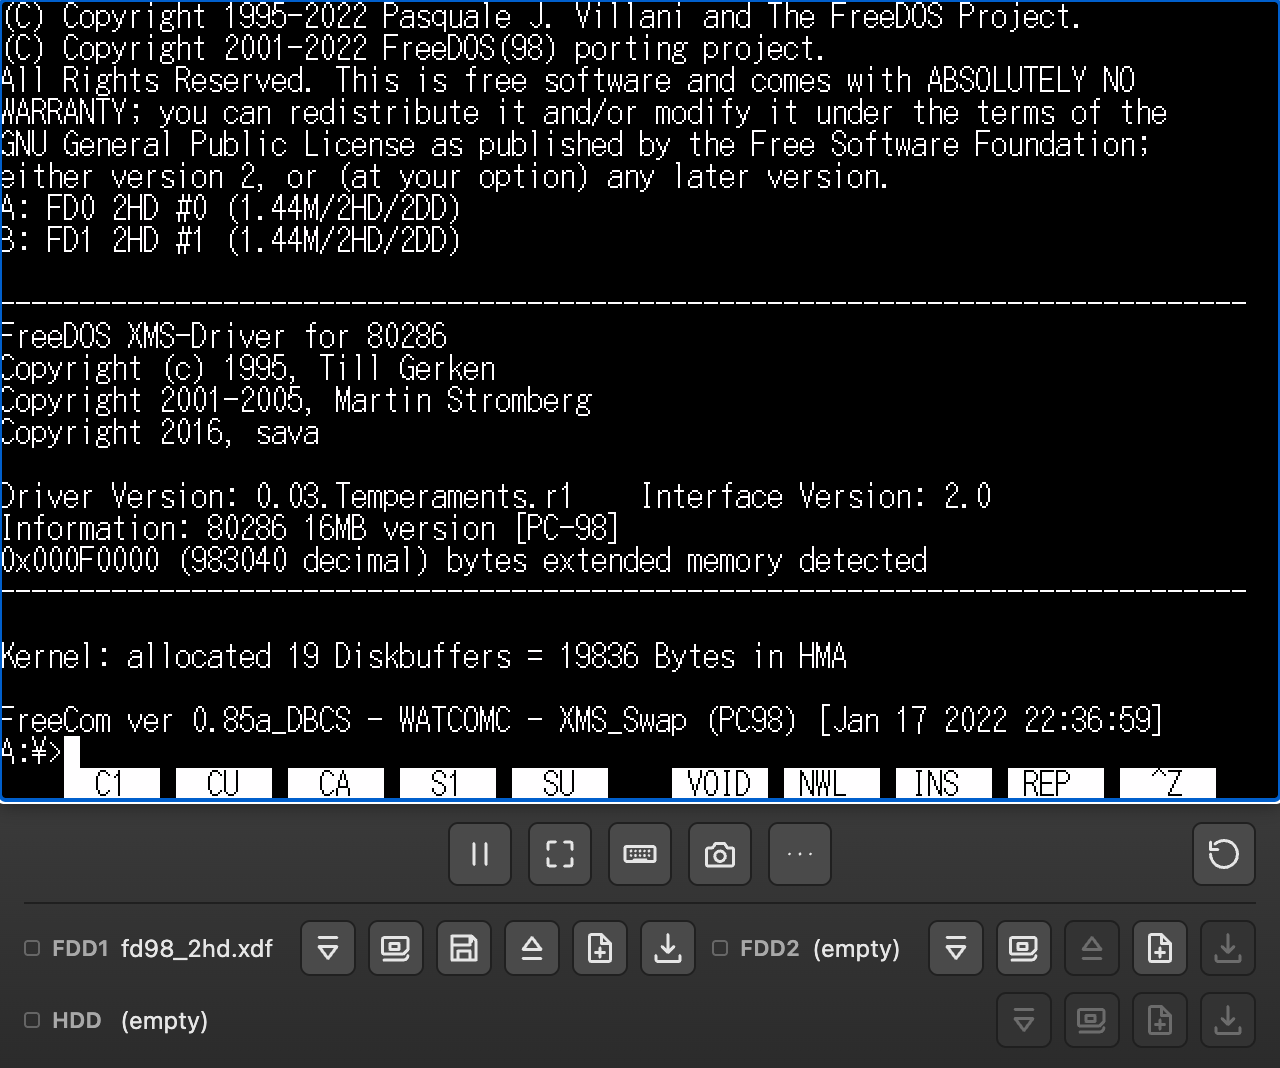
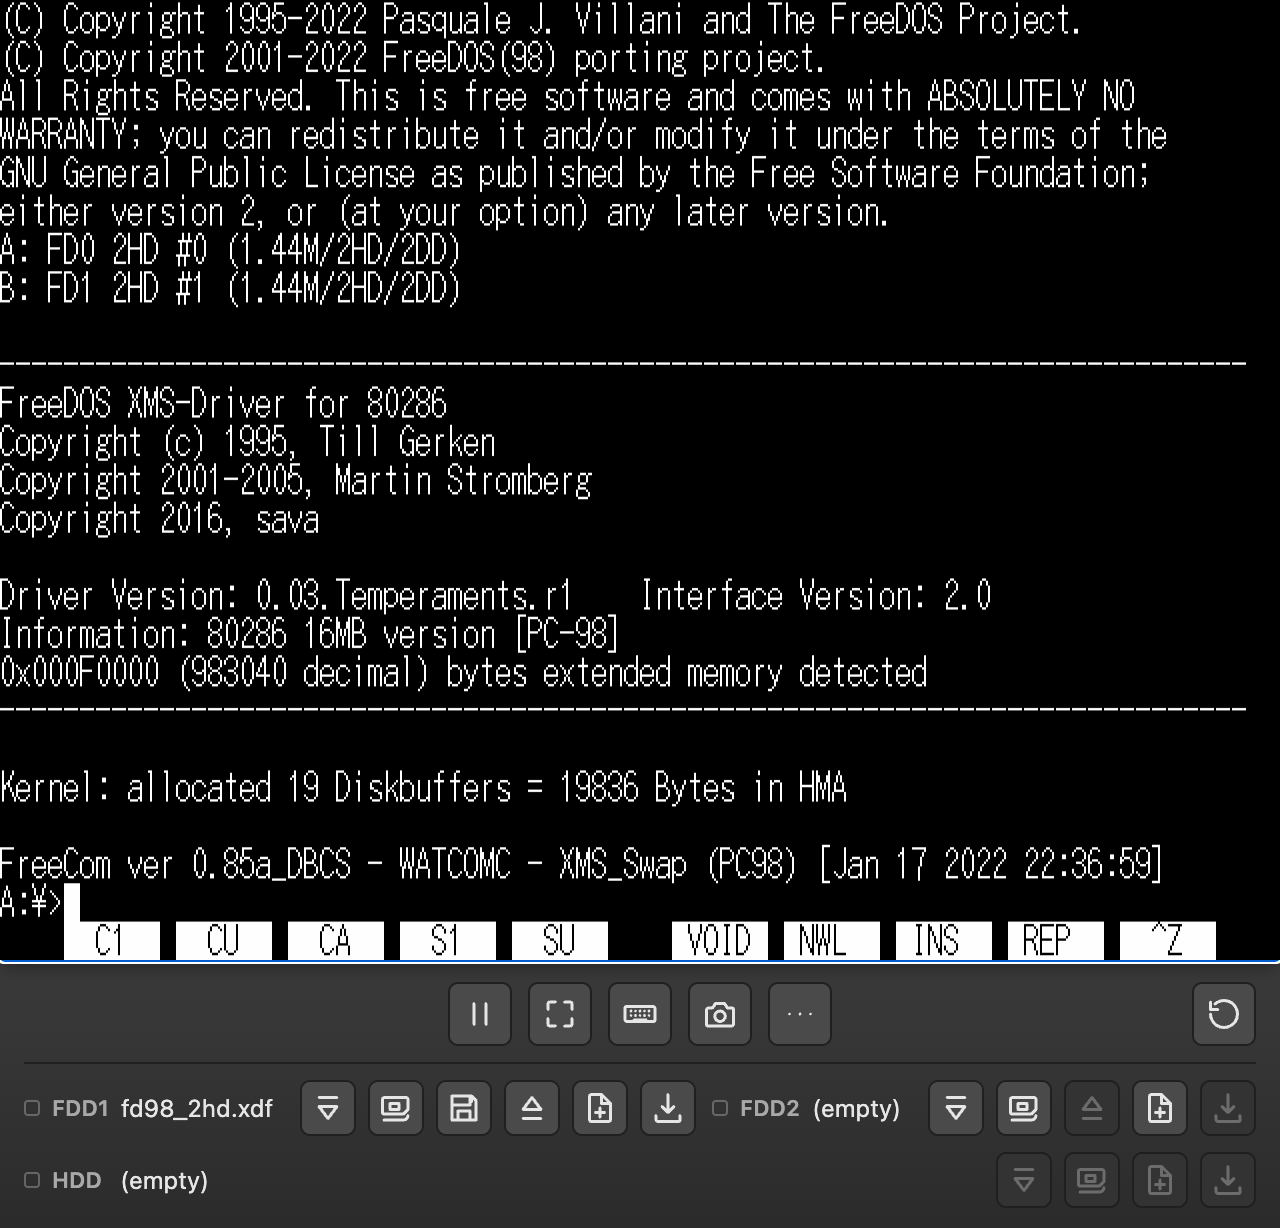
4:3表示モードの既定化を資料と使い方の図に反映
b92a401 でオーバーフローメニューに「表示」グループ(4:3/ドット等倍)が増え、
既定表示が4:3補正になったため、README(日英)のグループ列挙・URLパラメータ表・
実装済み機能一覧、public/help.html のグループ列挙・表示モードの説明・ボタン表、
docs/DESIGN.md のメニュー構成記述と4:3補正の設計節を更新した。

使い方ページの図は既定が4:3になったことで画面が縦に伸びるため、実際に見た目が
変わったoverlay/overview/paste-bar/virtual-pad/virtual-pad-landscape/virtual-trackpad
(日英)のみ撮り直してコミットした。library/library-menu/filemanager/input-settings
は差分がタイムスタンプ等の無関係なノイズのみだったため元のまま維持した。

diff --git a/public/help.html b/public/help.html
@@ -579,8 +579,9 @@
               常時表示は<strong>ポーズ／フルスクリーン／ソフトキーボード／スクリーンショット／「…」</strong>
               が中央にまとまり、<strong>マシンリセットだけ右端に分離</strong>されています。誤って押すと
               起動中の状態が丸ごと吹き飛ぶため、頻繁に押す他の操作から指1本ぶん離してあります。
-              「…」内は入力／サウンド／ディスク／ステートの4グループと、ROM登録／デバッガ／使い方／言語の
-              直結行です。言語行は地球儀アイコンと現在値を表示します。
+              「…」内は表示／入力／サウンド／ディスク／ステートの5グループと、ROM登録／デバッガ／使い方／言語の
+              直結行です。言語行は地球儀アイコンと現在値を表示します。「表示」は画面の縦横比モード
+              (既定は実機と同じ4:3、ドット等倍にも切替可)です。
             </p>
             <table class="btn-table">
               <thead>
@@ -602,9 +603,10 @@
               stay centered, while <strong>Reset Machine is split off to the right end</strong>.
               It's kept a finger's width away from the buttons you press often, because a
               stray tap would wipe out whatever state is currently running.
-              More contains Input, Sound, Disk, and State groups plus direct rows for ROM
-              Files, Debugger, Help, and Language. Language shows a globe and the current
-              value.
+              More contains Display, Input, Sound, Disk, and State groups plus direct rows
+              for ROM Files, Debugger, Help, and Language. Language shows a globe and the
+              current value. Display is the screen aspect mode (defaults to 4:3, matching a
+              real CRT; can be switched to pixel-perfect).
             </p>
             <table class="btn-table">
               <thead>
@@ -1182,8 +1184,25 @@
             icon: 'M5 12h.01 M12 12h.01 M19 12h.01',
             ja: 'その他',
             en: 'More',
-            descJa: '入力／サウンド／ディスク／ステートのグループと、ROM登録／デバッガ／使い方／言語の直結行を開きます。',
-            descEn: 'Opens the Input, Sound, Disk, and State groups plus direct rows for ROM Files, Debugger, Help, and Language.',
+            descJa: '表示／入力／サウンド／ディスク／ステートのグループと、ROM登録／デバッガ／使い方／言語の直結行を開きます。',
+            descEn: 'Opens the Display, Input, Sound, Disk, and State groups plus direct rows for ROM Files, Debugger, Help, and Language.',
+          },
+          {
+            icon: 'M4 5h16v10H4z M9 19h6 M12 15v4',
+            ja: '表示モード',
+            en: 'Display Mode',
+            descJa:
+              '「…」→「表示」から、画面の縦横比を切り替えます。既定は実機ブラウン管と同じ4:3表示' +
+              '(縦のみ1.2倍、拡大方向限定のシャープ寄りバイリニア補正)で、「ドット等倍」に切り替える' +
+              'と補正なしの正方形ピクセル表示になります。行の右端に現在値が出ます。設定はlocalStorageに' +
+              '保存され、`?aspect=4:3|native` で起動時のみ上書きできます。',
+            descEn:
+              'Under More (…) → Display, switches the screen aspect mode. The default is a 4:3 ' +
+              'display matching a real CRT (1.2x vertical scale only, with an expand-only, ' +
+              'sharp-leaning bilinear correction); switching to "Pixel-perfect" shows the raw ' +
+              'square-pixel image with no correction. The current value is shown on the right. ' +
+              'The setting is saved to localStorage, and `?aspect=4:3|native` can override it at ' +
+              'startup only.',
           },
           {
             icon: 'M12 3a6 6 0 0 1 6 6v6a6 6 0 0 1-12 0V9a6 6 0 0 1 6-6z M12 3v7 M12 7v3',

diff --git a/README.ja.md b/README.ja.md
@@ -43,6 +43,7 @@ https://.../?hdd=<HDDイメージURL>&fd1=<FD1イメージURL>&fd2=<FD2イメー
 | `lang` | UI表示言語 (`ja` / `en`) | 省略時は `localStorage['webnp2.lang']` → ブラウザの `navigator.language` (ja始まりなら `ja`) → 既定 `en` の順で決定。**「…」→「言語」** から切替可能（選択は保存され、次回以降も使われる） |
 | `freedos` | `1` で同梱の FreeDOS(98) 起動FDをFD1として起動対象にする | `public/freedos/fd98_2hd.xdf` をFD1にマウントする（`fd1` 指定がある場合はそちらが優先）。`run=1` と組み合わせれば既存の自動起動フローに乗る |
 | `worklet` | `0` で低遅延 AudioWorklet 音声出力を無効化 | 従来の SDL(ScriptProcessor) 経路に戻る。既定で有効。非対応ブラウザでは自動フォールバック |
+| `aspect` | `4:3` または `native` で起動時の表示モードを上書き | 既定は `4:3`（実機ブラウン管と同じ縦1.2倍補正）。`native` はドット等倍。起動時のみ有効で、以後は **「…」→「表示」→「表示モード」** の設定（localStorage）が使われる |
 | `alat` | AudioWorklet リングの下限水位の初期値(ms) | 小さいほど低遅延だが途切れやすい。既定はコア1チャンク分(約23ms)。途切れを検出すると自動で引き上げる |
 | `perf` | `1` で性能計測オーバーレイを表示 (FPS/メインスレッド占有/音声供給) | スローダウンの原因調査用 |
 
@@ -171,8 +172,8 @@ Google Driveをお使いください。
 
 常時表示するツールバーボタンは、ポーズ／フルスクリーン／ソフトキーボード／
 スクリーンショット／「…」が中央にまとまり、マシンリセットだけ右端に分離されています
-（誤操作で起動中の状態が飛ぶのを防ぐため）。「…」内は入力／サウンド／ディスク／ステートの
-4グループと、ROM登録／デバッガ／使い方／言語の直結行で構成されます。言語行は地球儀と現在値を表示します。
+（誤操作で起動中の状態が飛ぶのを防ぐため）。「…」内は表示／入力／サウンド／ディスク／ステートの
+5グループと、ROM登録／デバッガ／使い方／言語の直結行で構成されます。言語行は地球儀と現在値を表示します。
 
 ### 進行状況の保存
 
@@ -335,6 +336,9 @@ scripts/update-core.sh
 - ドライブアクセスランプ（FDD1/FDD2/HDDの読み書き中に赤く点灯）
 - ステートセーブ/復元（IndexedDB 持ち越し）
 - スクリーンショット保存（画面モードに応じて640x400／640x480 PNG）
+- 表示モード切替（既定は実機ブラウン管と同じ4:3〈縦1.2倍補正、拡大方向のみ・シャープ寄りの
+  バイリニア〉、「…」→「表示」からドット等倍にも切替可。設定はlocalStorageに保存、
+  `?aspect=4:3|native` で起動時のみ上書き可）
 - FreeDOS(98) 同梱起動、`run=1` 自動起動（ミュートバナー付き）
 - ディスクイメージのダウンロード、フルスクリーン、日英UI切替
 - ディスクライブラリの整理（.zip/.lzh 展開登録、複数ディスクのフォルダ化、表示名変更、

diff --git a/README.md b/README.md
@@ -44,6 +44,7 @@ https://.../?hdd=<HDD image URL>&fd1=<FD1 image URL>&fd2=<FD2 image URL>&run=1&c
 | `lang` | UI language (`ja` / `en`) | If omitted, resolved in order: `localStorage['webnp2.lang']` → the browser's `navigator.language` (`ja` if it starts with `ja`) → default `en`. Switch it from **More (…) → Language**; the choice is persisted and reused on subsequent visits |
 | `freedos` | `1` to boot the bundled FreeDOS(98) floppy | Mounts `public/freedos/fd98_2hd.xdf` as FD1 (unless `fd1` is also given, which takes priority). Combine with `run=1` to ride the existing auto-start flow |
 | `worklet` | `0` to disable low-latency AudioWorklet audio output | Falls back to the legacy SDL (ScriptProcessor) path. Enabled by default; auto-falls back on unsupported browsers too |
+| `aspect` | `4:3` or `native` to override the display mode at startup | Defaults to `4:3` (matches a real CRT with a 1.2x vertical correction). `native` is pixel-perfect (square pixels). Only applies at startup; afterwards the setting from **More (…) → Display → Display Mode** (localStorage) is used |
 | `alat` | Initial low-water mark of the AudioWorklet ring buffer, in ms | Lower is lower-latency but more prone to dropouts. Defaults to one core chunk (~23ms). Raised automatically when dropouts are detected |
 | `perf` | `1` shows a performance overlay (FPS / main-thread busy / audio supply) | For diagnosing slowdowns |
 
@@ -195,9 +196,9 @@ highlighted.
 The toolbar keeps Pause, Fullscreen, On-screen Keyboard, Screenshot, and More
 (…) centered, with Reset Machine split off to the right end (so an accidental
 tap doesn't wipe out whatever state is currently running). The More menu
-groups less frequent actions under Input, Sound, Disk, and State, with ROM
-Files, Debugger, Help, and Language as direct rows. Language is shown with a
-globe icon and its current value (“English” or “日本語”).
+groups less frequent actions under Display, Input, Sound, Disk, and State,
+with ROM Files, Debugger, Help, and Language as direct rows. Language is
+shown with a globe icon and its current value (“English” or “日本語”).
 
 ### Progress persistence
 
@@ -387,6 +388,10 @@ excluded via `.gitignore` and never committed.
 - Drive access lamps (FDD1/FDD2/HDD glow red while being read or written)
 - Save states (carried across sessions via IndexedDB)
 - Screenshot capture (640x400/640x480 PNG, matching the active video mode)
+- Switchable display mode (defaults to a 4:3 correction matching a real CRT —
+  1.2x vertical scale, expand-only, sharp-leaning bilinear — toggle to
+  pixel-perfect from **More (…) → Display**; the setting persists to
+  localStorage, and `?aspect=4:3|native` overrides it at startup only)
 - Bundled FreeDOS(98) boot, `run=1` auto-boot with mute banner
 - Disk image download, fullscreen, Japanese/English UI toggle
 - Disk library organization (.zip/.lzh import, multi-disk folders, renaming,
